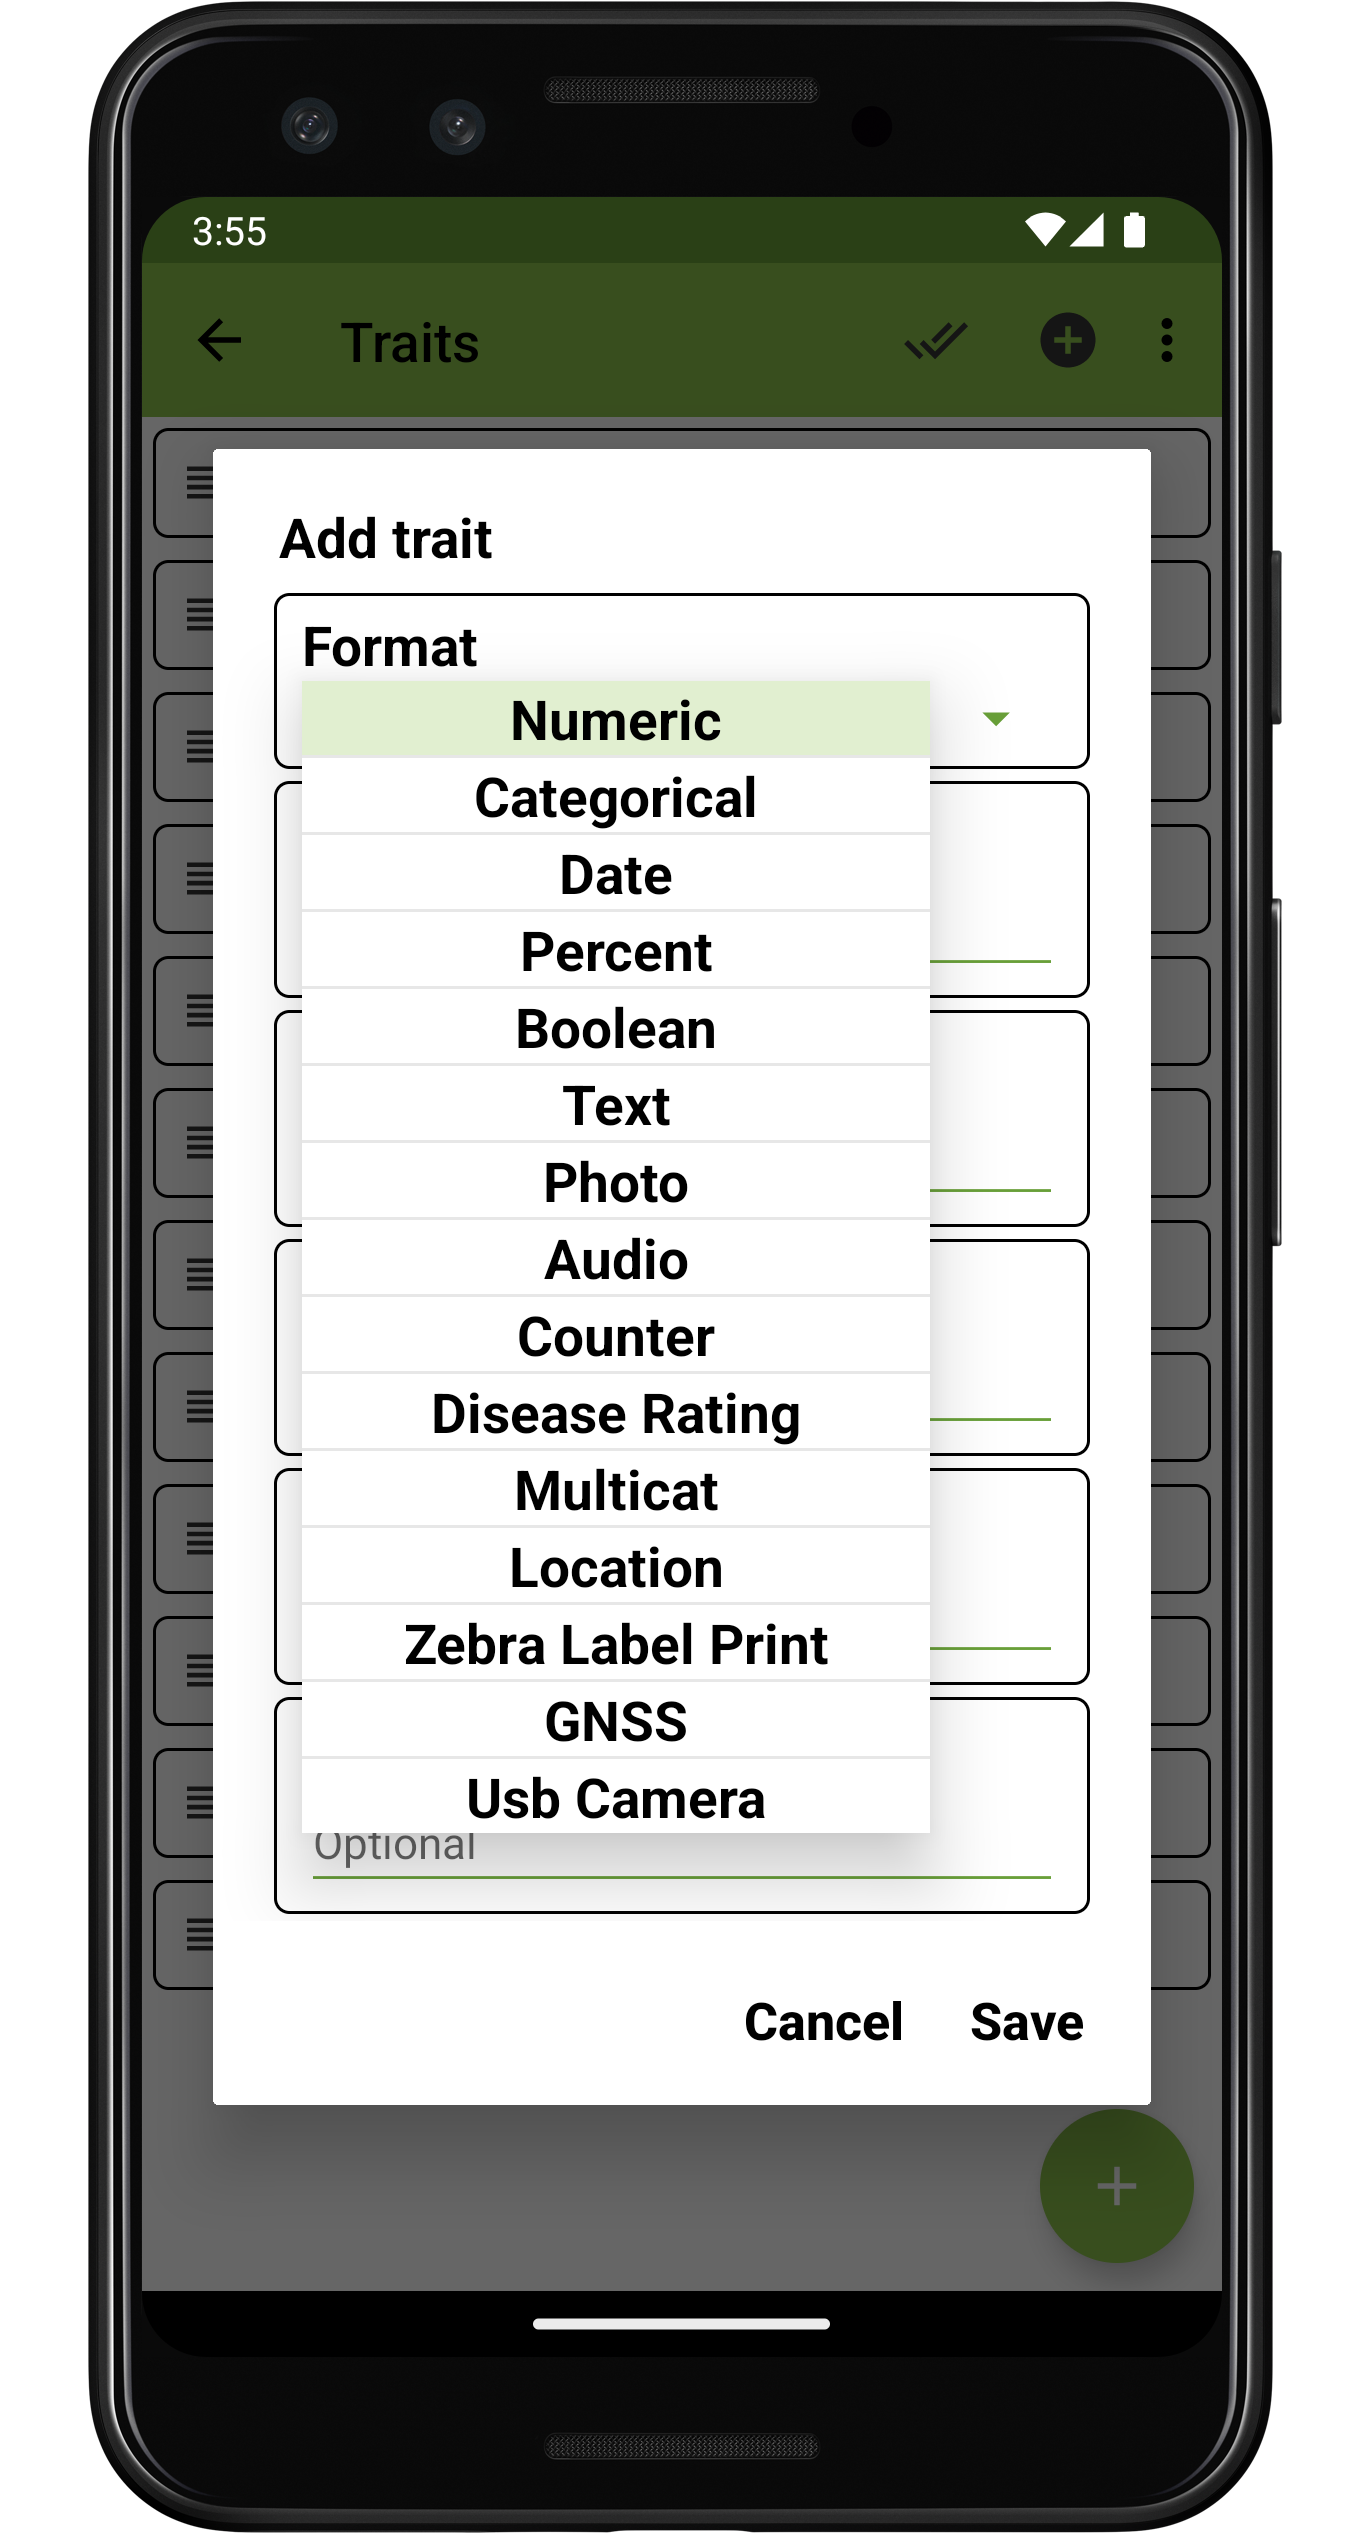
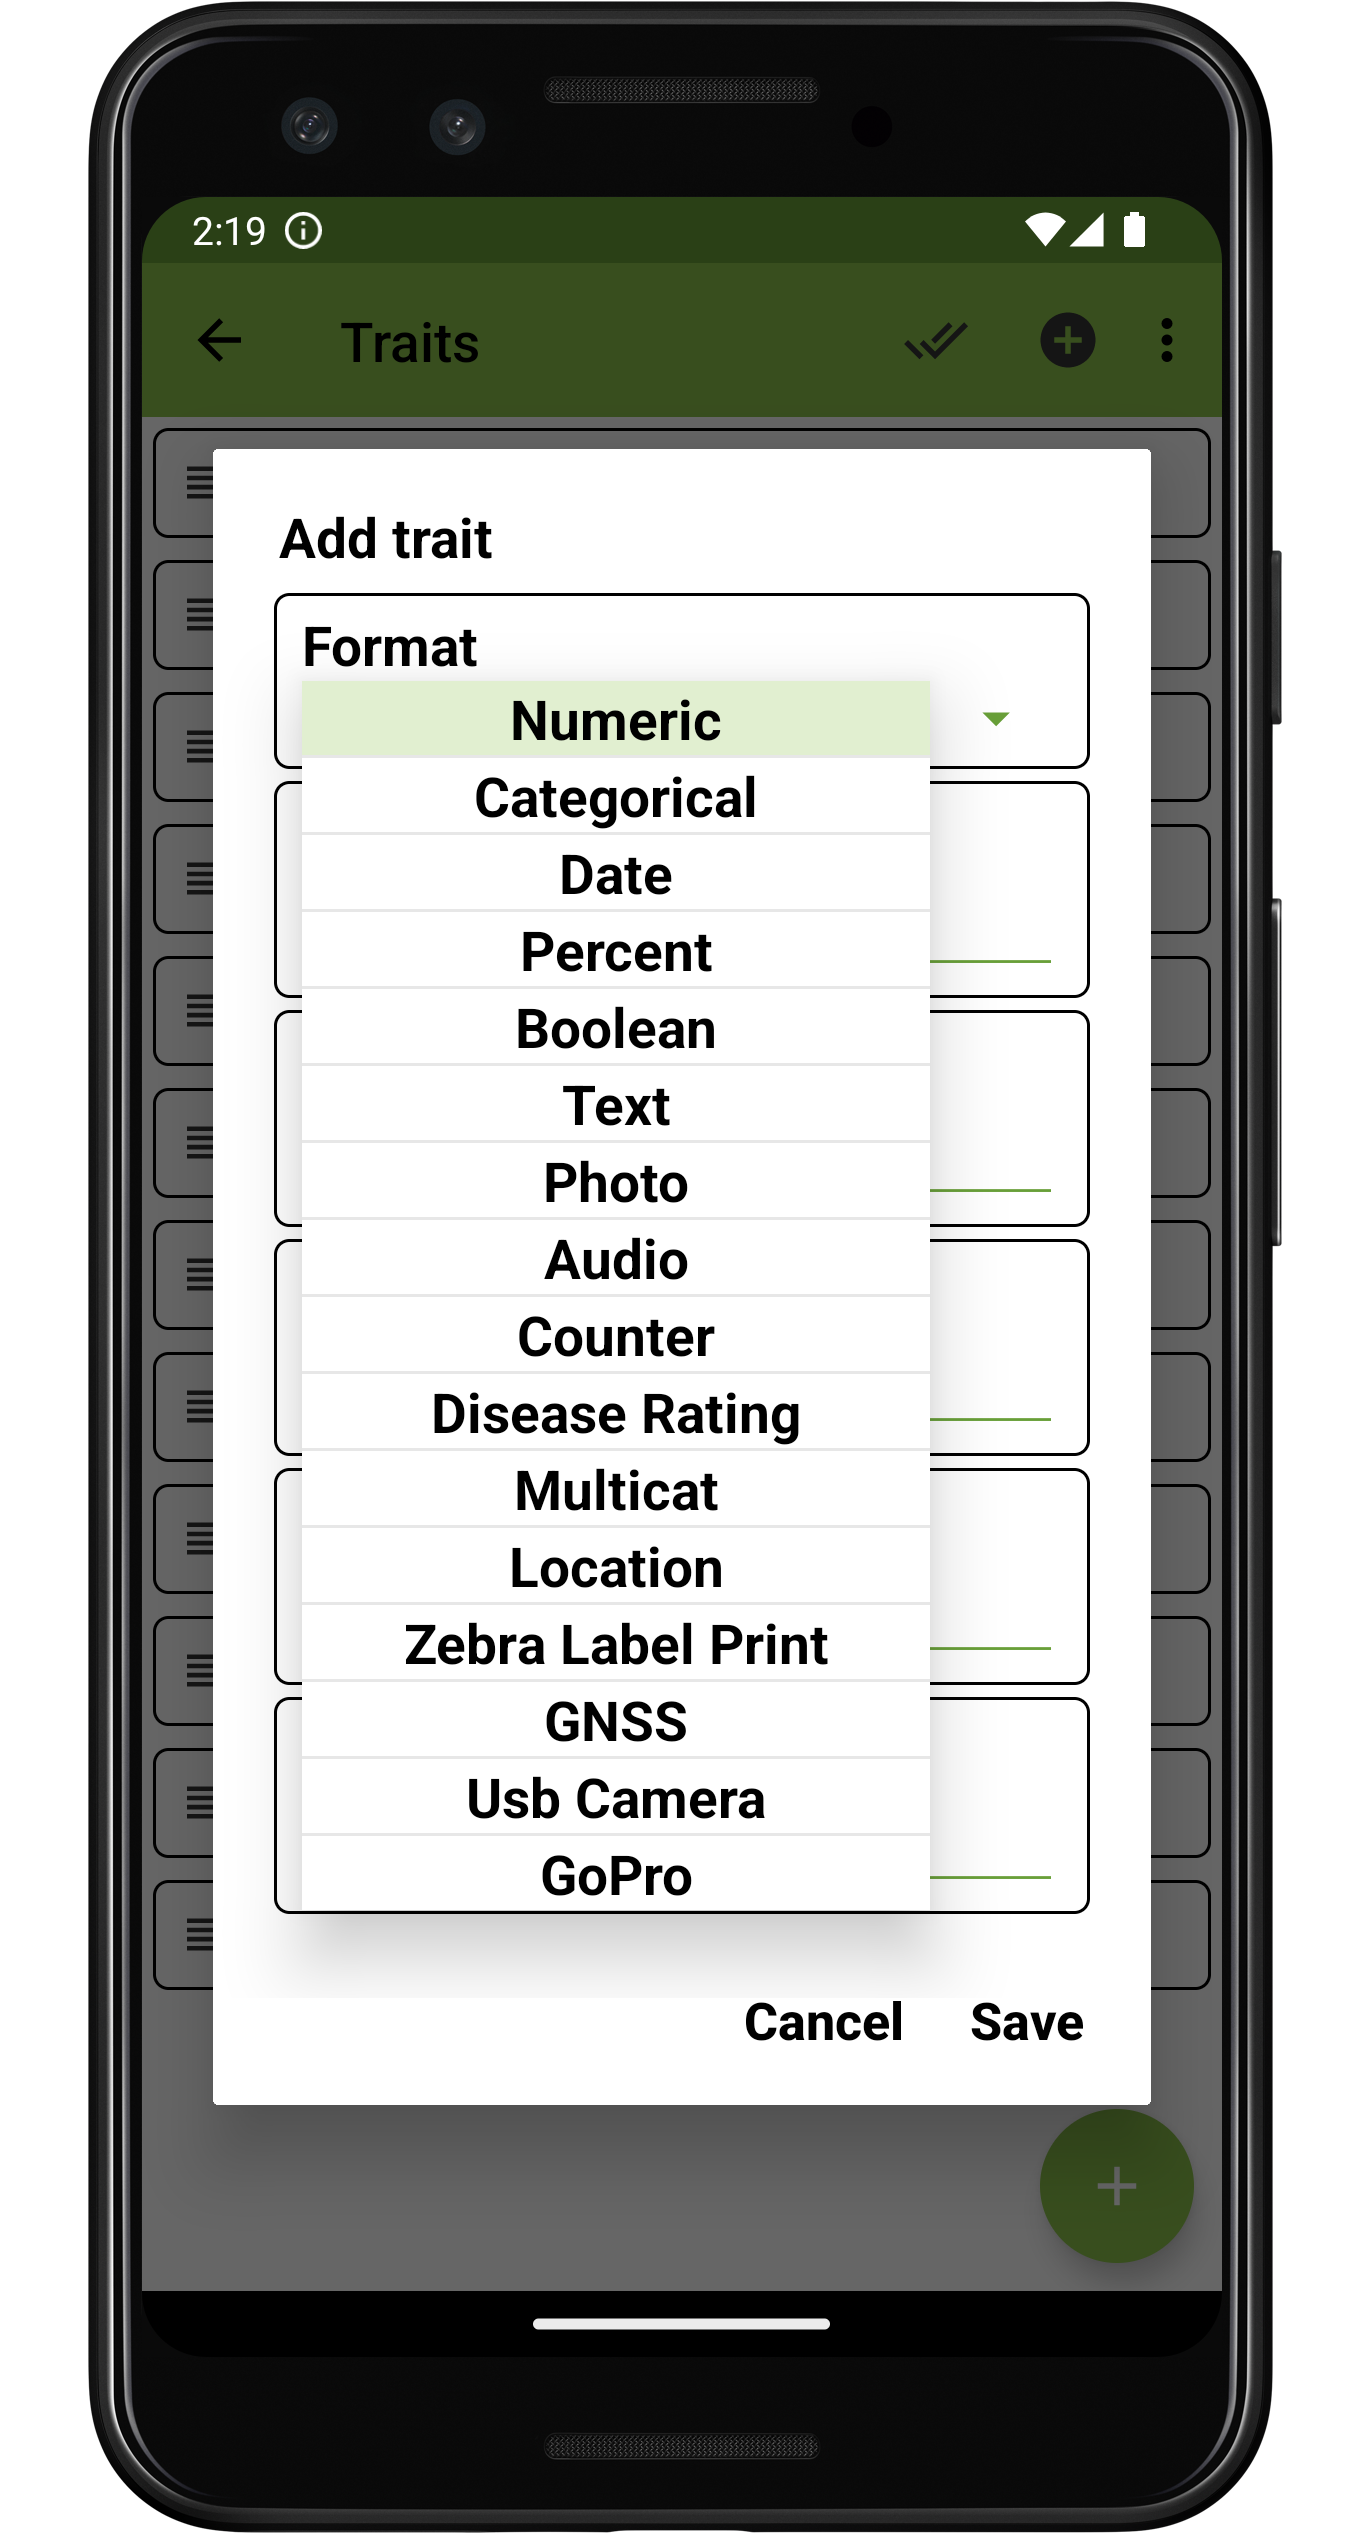
Add gopro trait documentation

Changed region(s): [[0.2146, 0.717, 0.6745, 0.7794]]

diff --git a/docs/source/trait-gopro.rst b/docs/source/trait-gopro.rst
@@ -1,0 +1,32 @@
+|gopro| GoPro Trait
+=========================
+Overview
+--------
+
+The GoPro trait format is used to capture images with an external, Bluetooth-connected GoPro camera. It is created with a trait name and optional details.
+
+On the collect screen, once a GoPro is connected via Bluetooth, it can be opened using the |connect| button. Once connected, press the |camera| icon to access it and capture images. Multiple photos can be captured for each entry.
+
+Photo files are named with the entry's unique identifier, the trait name, the photo number, and a timestamp. They are stored as .jpg files in a field-specific subdirectory (``plot_data/FIELD_NAME/usb-camera/PHOTO_FILE_NAME.jpg``).
+
+Creation
+--------
+
+.. figure:: /_static/images/traits/formats/create_gopro.png
+   :width: 40%
+   :align: center
+   :alt: GoPro trait creation fields
+
+Collect layout
+--------------
+
+.. figure:: /_static/images/traits/formats/collect_gopro_framed.png
+   :width: 40%
+   :align: center
+   :alt: GoPro trait collection
+
+.. |gopro| image:: /_static/icons/formats/camera-gopro.png
+  :width: 20
+
+.. |connect| image:: /_static/icons/formats/connection.png
+  :width: 20

diff --git a/docs/source/index.rst b/docs/source/index.rst
@@ -40,6 +40,7 @@ Contents
    trait-zebra
    trait-gnss
    trait-usb-camera
+   trait-gopro
 
 .. toctree::
    :maxdepth: 2
